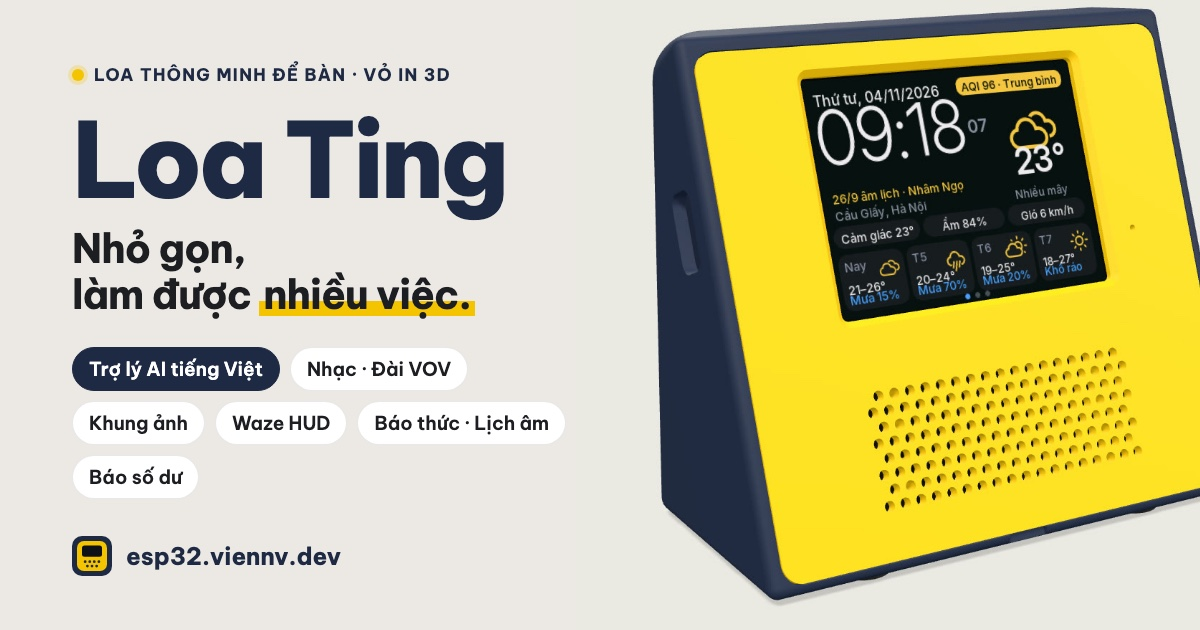
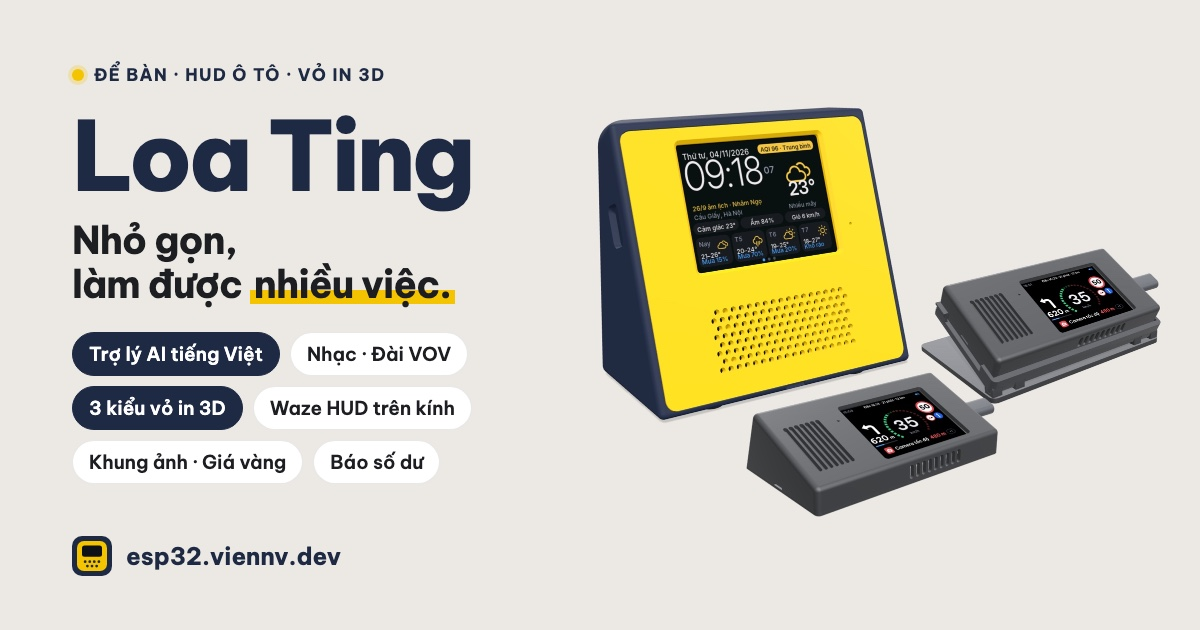
Landing page từ ed23bc9 (có thay đổi chưa commit)

diff --git a/index.html b/index.html
@@ -16,11 +16,11 @@
 <meta property="og:url" content="https://esp32.viennv.dev/">
 <meta property="og:title" content="Loa Ting · Nhỏ gọn, làm được nhiều việc">
 <meta property="og:description" content="Trợ lý AI nói tiếng Việt, nhạc theo yêu cầu, đài VOV, khung ảnh Google Photos, giá vàng, báo thức, lịch âm và báo biến động số dư, trên một chiếc loa nhỏ có vỏ in 3D. Thay vỏ là thành HUD dẫn đường trên ô tô.">
-<meta property="og:image" content="https://esp32.viennv.dev/assets/og-image.jpg?v=1">
+<meta property="og:image" content="https://esp32.viennv.dev/assets/og-image.jpg?v=2">
 <meta property="og:image:type" content="image/jpeg">
 <meta property="og:image:width" content="1200">
 <meta property="og:image:height" content="630">
-<meta property="og:image:alt" content="Loa Ting: loa thông minh để bàn, mặt trước vàng, lưng xanh than, màn hình đồng hồ và thời tiết">
+<meta property="og:image:alt" content="Loa Ting: ba kiểu vỏ in 3D, vỏ để bàn mặt trước vàng lưng xanh than và hai vỏ HUD ô tô màu đen hiện Waze HUD">
 <meta property="og:video" content="https://esp32.viennv.dev/assets/review.mp4">
 <meta property="og:video:type" content="video/mp4">
 <meta property="og:video:width" content="1280">
@@ -28,8 +28,8 @@
 <meta name="twitter:card" content="summary_large_image">
 <meta name="twitter:title" content="Loa Ting · Nhỏ gọn, làm được nhiều việc">
 <meta name="twitter:description" content="Trợ lý AI nói tiếng Việt, nhạc theo yêu cầu, đài VOV, khung ảnh Google Photos, giá vàng, báo thức, lịch âm và báo biến động số dư, trên một chiếc loa nhỏ có vỏ in 3D. Thay vỏ là thành HUD dẫn đường trên ô tô.">
-<meta name="twitter:image" content="https://esp32.viennv.dev/assets/og-image.jpg?v=1">
-<meta name="twitter:image:alt" content="Loa Ting: loa thông minh để bàn, mặt trước vàng, lưng xanh than, màn hình đồng hồ và thời tiết">
+<meta name="twitter:image" content="https://esp32.viennv.dev/assets/og-image.jpg?v=2">
+<meta name="twitter:image:alt" content="Loa Ting: ba kiểu vỏ in 3D, vỏ để bàn mặt trước vàng lưng xanh than và hai vỏ HUD ô tô màu đen hiện Waze HUD">
 <link rel="icon" href="assets/favicon.svg" type="image/svg+xml">
 <link rel="apple-touch-icon" href="assets/apple-touch-icon.png">
 <script type="application/ld+json">
@@ -40,7 +40,7 @@
   "url": "https://esp32.viennv.dev/",
   "inLanguage": "vi",
   "description": "Loa thông minh để bàn, màn hình cảm ứng 2,8″: trợ lý AI tiếng Việt, nhạc, đài VOV, khung ảnh, giá vàng, báo thức, báo số dư. Vỏ in 3D, có vỏ HUD cho ô tô.",
-  "image": "https://esp32.viennv.dev/assets/og-image.jpg?v=1",
+  "image": "https://esp32.viennv.dev/assets/og-image.jpg?v=2",
   "publisher": {
     "@type": "Organization",
     "name": "viennv.dev",
@@ -57,7 +57,7 @@
   "description": "Một vòng quanh vỏ in 3D, nhìn xuyên vào bên trong, rồi đi qua từng ứng dụng của loa: trợ lý AI “Hey Ivy”, nhạc, đài VOV, khung ảnh, Waze HUD, báo thức, báo số dư.",
   "thumbnailUrl": [
     "https://esp32.viennv.dev/assets/review-poster.jpg",
-    "https://esp32.viennv.dev/assets/og-image.jpg?v=1"
+    "https://esp32.viennv.dev/assets/og-image.jpg?v=2"
   ],
   "uploadDate": "2026-11-07T15:11:00+07:00",
   "duration": "PT4M50S",
@@ -148,11 +148,22 @@
   .nav-links a { text-decoration: none; color: var(--muted); }
   .nav-links a:hover { color: var(--ink); }
   .nav .btn { height: 40px; padding: 0 16px; font-size: 14px; border-radius: 11px; }
+  /* menu điện thoại: nút ☰ mở danh sách mục ngay dưới header */
+  .menu-btn { display: none; width: 44px; height: 44px; margin-right: -10px; border: 0; border-radius: 12px; background: transparent; color: var(--ink); cursor: pointer; place-items: center; }
+  .menu-btn:hover { background: rgba(255,255,255,.55); }
+  .menu-btn svg { width: 24px; height: 24px; }
+  .menu-btn path { transition: transform .2s, opacity .2s; transform-origin: 12px 12px; }
+  header.top.open .menu-btn .m1 { transform: translateY(5px) rotate(45deg); }
+  header.top.open .menu-btn .m2 { opacity: 0; }
+  header.top.open .menu-btn .m3 { transform: translateY(-5px) rotate(-45deg); }
+  .nav-links .nav-cta { display: none; }
+
 
   /* hero */
   .hero { padding: clamp(28px, 5vw, 56px) 0 clamp(40px, 6vw, 72px); }
   .hero-grid { display: grid; grid-template-columns: 1.02fr 1fr; gap: clamp(24px, 4vw, 56px); align-items: center; }
-  .hero h1 { font-size: clamp(42px, 6.2vw, 74px); font-weight: 800; letter-spacing: -.035em; margin: 22px 0 20px; }
+  /* trên máy tính đúng 2 dòng: "Nhỏ gọn, làm được" vừa bề ngang cột chữ (≈ 8,7 × cỡ chữ), "nhiều việc." không ngắt */
+  .hero h1 { font-size: clamp(40px, 4.6vw, 58px); font-weight: 800; letter-spacing: -.035em; margin: 22px 0 20px; }
   .hero h1 .hl { position: relative; white-space: nowrap; }
   .hero h1 .hl::after {
     content: ""; position: absolute; left: -2px; right: -4px; bottom: .06em; height: .34em;
@@ -355,10 +366,22 @@
   .dark :focus-visible { outline-color: var(--yellow); }
 
   @media (max-width: 980px) {
-    .nav-links { display: none; }
+    .nav { justify-content: flex-start; }
+    .brand { margin-right: auto; }
+    .menu-btn { display: grid; }
+    .nav-links {
+      display: none; position: absolute; top: 100%; left: 0; right: 0; flex-direction: column; gap: 0;
+      padding: 4px 20px 18px; background: var(--paper); border-bottom: 1px solid var(--line);
+      box-shadow: 0 18px 30px rgba(28,30,34,.12);
+    }
+    header.top.open .nav-links { display: flex; }
+    .nav-links a { padding: 13px 2px; font-size: 17px; font-weight: 600; color: var(--ink); border-bottom: 1px solid var(--line); box-shadow: none; }
+    .nav-links a[aria-current="page"] { color: var(--navy); box-shadow: inset 3px 0 0 var(--yellow); padding-left: 12px; }
     .features { grid-template-columns: repeat(2, 1fr); }
     .details { grid-template-columns: repeat(2, 1fr); }
   }
+  /* cột ảnh hero hẹp: bong bóng sẽ che vỏ HUD phẳng */
+  @media (min-width: 861px) and (max-width: 1060px) { .toast { display: none; } }
   @media (max-width: 860px) {
     .hero-grid, .demo-grid, .assistant, .hw-grid, .hud-intro, .vo-grid { grid-template-columns: 1fr; }
     .vo-grid { max-width: 560px; }
@@ -368,8 +391,23 @@
   }
   @media (max-width: 560px) {
     body { font-size: 16px; }
-    .features, .details { grid-template-columns: 1fr; }
+    .details { grid-template-columns: 1fr; }
     .hero-cta .btn { flex: 1 1 100%; justify-content: center; }
+    .nav-links .nav-cta { display: block; margin-top: 12px; padding: 13px 16px; border: 0; border-radius: 13px; background: var(--navy); color: #fff; text-align: center; }
+    /* 16 tính năng: 2 cột cho trang bớt dài */
+    .features { grid-template-columns: 1fr 1fr; gap: 20px 12px; }
+    .feature .screen { padding: 4px; border-radius: 11px; margin-bottom: 10px; }
+    .feature .screen img { border-radius: 7px; }
+    .feature h3 { font-size: 15px; gap: 4px 6px; }
+    .feature p { font-size: 13.5px; line-height: 1.5; margin-top: 4px; }
+    .badge { font-size: 12px; padding: 2px 7px; }
+    /* hàng vuốt ngang: thẻ sau ló ra một phần để biết còn nữa */
+    .vo-grid, .flow { display: flex; overflow-x: auto; scroll-snap-type: x mandatory; gap: 14px; margin-left: -20px; margin-right: -20px; padding: 2px 20px 12px; scroll-padding-left: 20px; max-width: none; scrollbar-width: none; }
+    .vo-grid > .vo-card, .flow > .step { flex: 0 0 82%; scroll-snap-align: start; }
+    .vo-grid::-webkit-scrollbar, .flow::-webkit-scrollbar { display: none; }
+    .build-step { padding: 20px; }
+    .chapters button { padding: 10px; font-size: 15px; }
+    .foot-links a { display: inline-block; padding: 8px 0; }
     .toast { display: none; }
     .hud-tag { bottom: -4%; padding: 6px 10px 6px 6px; gap: 8px; }
     .hud-tag .ico { width: 28px; height: 28px; }
@@ -399,15 +437,17 @@
       </svg>
       Loa Ting
     </a>
-    <nav class="nav-links" aria-label="Mục lục">
+    <nav class="nav-links" id="nav-links" aria-label="Mục lục">
       <a href="#video">Video</a>
       <a href="vo/">Vỏ in 3D</a>
       <a href="#hud">HUD ô tô</a>
       <a href="#tinh-nang">Tính năng</a>
       <a href="#bao-so-du">Báo số dư</a>
       <a href="#hoi-dap">Hỏi đáp</a>
+      <a class="nav-cta" href="#tu-lam">Tự làm một chiếc</a>
     </nav>
     <a class="btn btn-dark" href="#tu-lam">Tự làm một chiếc</a>
+    <button class="menu-btn" type="button" aria-expanded="false" aria-controls="nav-links" aria-label="Mở menu"><svg viewBox="0 0 24 24" fill="none" stroke="currentColor" stroke-width="2.2" stroke-linecap="round" aria-hidden="true"><path class="m1" d="M4 7h16"/><path class="m2" d="M4 12h16"/><path class="m3" d="M4 17h16"/></svg></button>
   </div>
 </header>
 
@@ -835,6 +875,14 @@
   (function () {
     var y = document.getElementById('year'); if (y) y.textContent = new Date().getFullYear();
     var h = document.querySelector('header.top');
+    // menu điện thoại
+    var mb = document.querySelector('.menu-btn'), hd = document.querySelector('header.top');
+    function menu(open) { hd.classList.toggle('open', open); mb.setAttribute('aria-expanded', String(open)); mb.setAttribute('aria-label', open ? 'Đóng menu' : 'Mở menu'); }
+    mb.addEventListener('click', function () { menu(!hd.classList.contains('open')); });
+    document.getElementById('nav-links').addEventListener('click', function (e) { if (e.target.closest('a')) menu(false); });
+    document.addEventListener('keydown', function (e) { if (e.key === 'Escape') menu(false); });
+    document.addEventListener('click', function (e) { if (!hd.contains(e.target)) menu(false); });
+
     var on = function () { h.classList.toggle('scrolled', window.scrollY > 8); };
     on(); window.addEventListener('scroll', on, { passive: true });
     // logo: back to the top, and drop the #hash so a reload stays at the top

diff --git a/vo/index.html b/vo/index.html
@@ -15,13 +15,13 @@
 <meta property="og:url" content="https://esp32.viennv.dev/vo/">
 <meta property="og:title" content="Vỏ in 3D Loa Ting · để bàn và HUD ô tô">
 <meta property="og:description" content="Một mạch, ba kiểu vỏ: để bàn, HUD nêm 20°, HUD thân phẳng trên đế 5 nấc. So sánh, cấu tạo, thiết kế và mô hình 3D.">
-<meta property="og:image" content="https://esp32.viennv.dev/assets/og-image.jpg?v=1">
+<meta property="og:image" content="https://esp32.viennv.dev/assets/og-image.jpg?v=2">
 <meta property="og:image:width" content="1200">
 <meta property="og:image:height" content="630">
 <meta name="twitter:card" content="summary_large_image">
 <meta name="twitter:title" content="Vỏ in 3D Loa Ting · để bàn và HUD ô tô">
 <meta name="twitter:description" content="Một mạch, ba kiểu vỏ: để bàn, HUD nêm 20°, HUD thân phẳng trên đế 5 nấc. So sánh, cấu tạo, thiết kế và mô hình 3D.">
-<meta name="twitter:image" content="https://esp32.viennv.dev/assets/og-image.jpg?v=1">
+<meta name="twitter:image" content="https://esp32.viennv.dev/assets/og-image.jpg?v=2">
 <link rel="icon" href="../assets/favicon.svg" type="image/svg+xml">
 <link rel="apple-touch-icon" href="../assets/apple-touch-icon.png">
 <script type="application/ld+json">
@@ -110,6 +110,16 @@
   .nav-links a:hover { color: var(--ink); }
   .nav-links a[aria-current="page"] { color: var(--ink); font-weight: 700; box-shadow: inset 0 -2px 0 var(--yellow); }
   .nav .btn { height: 40px; padding: 0 16px; font-size: 14px; border-radius: 11px; }
+  /* menu điện thoại: nút ☰ mở danh sách mục ngay dưới header */
+  .menu-btn { display: none; width: 44px; height: 44px; margin-right: -10px; border: 0; border-radius: 12px; background: transparent; color: var(--ink); cursor: pointer; place-items: center; }
+  .menu-btn:hover { background: rgba(255,255,255,.55); }
+  .menu-btn svg { width: 24px; height: 24px; }
+  .menu-btn path { transition: transform .2s, opacity .2s; transform-origin: 12px 12px; }
+  header.top.open .menu-btn .m1 { transform: translateY(5px) rotate(45deg); }
+  header.top.open .menu-btn .m2 { opacity: 0; }
+  header.top.open .menu-btn .m3 { transform: translateY(-5px) rotate(-45deg); }
+  .nav-links .nav-cta { display: none; }
+
 
   /* intro */
   .intro { padding: clamp(28px, 5vw, 56px) 0 clamp(24px, 3vw, 36px); }
@@ -279,6 +289,7 @@
   .cmp .group th, .cmp .group td { background: rgba(245,196,0,.1); font-size: 12px; font-weight: 700; letter-spacing: .06em; text-transform: uppercase; color: #8a6400; padding-top: 8px; padding-bottom: 8px; }
   .cmp .group th:first-child { background: #f7efce; }
   .cmp small { display: block; color: var(--muted); font-size: 13px; }
+  .swipe-hint { display: none; margin: 22px 0 -16px; font-size: 13.5px; font-weight: 600; color: var(--muted); }
   .choose { display: grid; grid-template-columns: repeat(3, 1fr); gap: 18px; margin-top: 28px; }
   .choose a { display: block; text-decoration: none; background: var(--paper-2); border: 1px solid var(--line); border-radius: var(--radius); padding: 18px 20px; }
   .choose a:hover { background: #fff; }
@@ -311,7 +322,17 @@
   :focus-visible { outline: 3px solid var(--navy); outline-offset: 3px; border-radius: 6px; }
 
   @media (max-width: 980px) {
-    .nav-links { display: none; }
+    .nav { justify-content: flex-start; }
+    .brand { margin-right: auto; }
+    .menu-btn { display: grid; }
+    .nav-links {
+      display: none; position: absolute; top: 100%; left: 0; right: 0; flex-direction: column; gap: 0;
+      padding: 4px 20px 18px; background: var(--paper); border-bottom: 1px solid var(--line);
+      box-shadow: 0 18px 30px rgba(28,30,34,.12);
+    }
+    header.top.open .nav-links { display: flex; }
+    .nav-links a { padding: 13px 2px; font-size: 17px; font-weight: 600; color: var(--ink); border-bottom: 1px solid var(--line); box-shadow: none; }
+    .nav-links a[aria-current="page"] { color: var(--navy); box-shadow: inset 3px 0 0 var(--yellow); padding-left: 12px; }
     .details { grid-template-columns: 1fr 1fr; }
     .cmp-cards, .choose { grid-template-columns: 1fr 1fr; }
   }
@@ -326,12 +347,26 @@
   @media (max-width: 560px) {
     body { font-size: 16px; }
     .nav .btn { display: none; }
-    .cmp-cards, .choose, .details { grid-template-columns: 1fr; }
+    .choose, .details { grid-template-columns: 1fr; }
+    .swipe-hint { display: block; }
+    .stats dd { font-size: 16px; }
+    .stats div { padding: 10px 12px; }
+    .nav-links .nav-cta { display: block; margin-top: 12px; padding: 13px 16px; border: 0; border-radius: 13px; background: var(--navy); color: #fff; text-align: center; }
+    /* hàng vuốt ngang: thẻ sau ló ra một phần để biết còn nữa */
+    .cmp-cards { display: flex; overflow-x: auto; scroll-snap-type: x mandatory; gap: 14px; margin-left: -20px; margin-right: -20px; padding: 2px 20px 12px; scroll-padding-left: 20px; max-width: none; scrollbar-width: none; }
+    .cmp-cards > .ccard { flex: 0 0 82%; scroll-snap-align: start; }
+    .cmp-cards::-webkit-scrollbar { display: none; }
+    .foot-links a { display: inline-block; padding: 8px 0; }
     .kv th, .kv td { display: block; width: auto; }
     .kv th { padding-bottom: 4px; border-top: 1px solid var(--line); }
     .kv td { padding-top: 4px; border-top: 0; }
-    .tab { padding: 0 12px; }
-    .tab small { display: none; }
+    /* 4 tab vừa một hàng */
+    .tablist { display: grid; grid-template-columns: repeat(4, auto); justify-content: space-between; gap: 4px; }
+    .tab { padding: 0 9px; font-size: 14.5px; gap: 0; }
+    .tab small, .tab .dot { display: none; }
+  }
+  @media (max-width: 420px) {
+    .tab .deg { display: none; }
   }
   @media (prefers-reduced-motion: reduce) {
     html { scroll-behavior: auto; }
@@ -352,14 +387,16 @@
       </svg>
       Loa Ting
     </a>
-    <nav class="nav-links" aria-label="Mục lục">
+    <nav class="nav-links" id="nav-links" aria-label="Mục lục">
       <a href="../">Trang chủ</a>
       <a href="./" aria-current="page">Vỏ in 3D</a>
       <a href="../#hud">HUD ô tô</a>
       <a href="../#tinh-nang">Tính năng</a>
       <a href="../#hoi-dap">Hỏi đáp</a>
+      <a class="nav-cta" href="../#tu-lam">Tự làm một chiếc</a>
     </nav>
     <a class="btn btn-dark" href="../#tu-lam">Tự làm một chiếc</a>
+    <button class="menu-btn" type="button" aria-expanded="false" aria-controls="nav-links" aria-label="Mở menu"><svg viewBox="0 0 24 24" fill="none" stroke="currentColor" stroke-width="2.2" stroke-linecap="round" aria-hidden="true"><path class="m1" d="M4 7h16"/><path class="m2" d="M4 12h16"/><path class="m3" d="M4 17h16"/></svg></button>
   </div>
 </header>
 
@@ -383,7 +420,7 @@
   <div class="wrap tablist" role="tablist">
     <a class="tab" role="tab" id="tab-so-sanh" href="#so-sanh" aria-controls="so-sanh" aria-selected="true">So sánh</a>
     <a class="tab" role="tab" id="tab-de-ban" href="#de-ban" aria-controls="de-ban" aria-selected="false"><i class="dot" aria-hidden="true"></i>Để bàn <small>bản 3.1</small></a>
-    <a class="tab" role="tab" id="tab-hud-nem" href="#hud-nem" aria-controls="hud-nem" aria-selected="false"><i class="dot draft" aria-hidden="true"></i>HUD nêm 20°</a>
+    <a class="tab" role="tab" id="tab-hud-nem" href="#hud-nem" aria-controls="hud-nem" aria-selected="false"><i class="dot draft" aria-hidden="true"></i>HUD nêm<span class="deg"> 20°</span></a>
     <a class="tab" role="tab" id="tab-hud-phang" href="#hud-phang" aria-controls="hud-phang" aria-selected="false"><i class="dot draft" aria-hidden="true"></i>HUD phẳng <small>đế 5 nấc</small></a>
   </div>
 </nav>
@@ -425,6 +462,7 @@
     </a>
   </div>
 
+  <p class="swipe-hint" aria-hidden="true">Vuốt ngang bảng để xem cả 3 vỏ →</p>
   <div class="cmp-wrap" role="region" aria-label="Bảng so sánh ba kiểu vỏ" tabindex="0">
     <table class="cmp">
       <thead>
@@ -917,6 +955,14 @@
 <script>
   (function () {
     document.body.classList.remove('no-js');
+    // menu điện thoại
+    var mb = document.querySelector('.menu-btn'), hd = document.querySelector('header.top');
+    function menu(open) { hd.classList.toggle('open', open); mb.setAttribute('aria-expanded', String(open)); mb.setAttribute('aria-label', open ? 'Đóng menu' : 'Mở menu'); }
+    mb.addEventListener('click', function () { menu(!hd.classList.contains('open')); });
+    document.getElementById('nav-links').addEventListener('click', function (e) { if (e.target.closest('a')) menu(false); });
+    document.addEventListener('keydown', function (e) { if (e.key === 'Escape') menu(false); });
+    document.addEventListener('click', function (e) { if (!hd.contains(e.target)) menu(false); });
+
     var y = document.getElementById('year'); if (y) y.textContent = new Date().getFullYear();
 
     // tabs: one panel at a time, the URL hash names the tab (#so-sanh, #de-ban, #hud-nem, #hud-phang)

diff --git a/3d/hud-phang/index.html b/3d/hud-phang/index.html
@@ -8,7 +8,7 @@
 <link rel="canonical" href="https://esp32.viennv.dev/3d/hud-phang/">
 <meta property="og:title" content="Vỏ HUD ô tô Loa Ting · thân phẳng, đế 5 nấc">
 <meta property="og:description" content="Xoay mô hình 3D, đổi nấc 10–40°, xem ảnh Waze HUD phản chiếu lên kính lái.">
-<meta property="og:image" content="https://esp32.viennv.dev/assets/og-image.jpg?v=1">
+<meta property="og:image" content="https://esp32.viennv.dev/assets/og-image.jpg?v=2">
 <meta property="og:url" content="https://esp32.viennv.dev/3d/hud-phang/">
 <link rel="icon" href="../../assets/favicon.svg" type="image/svg+xml">
 </head>
@@ -1053,7 +1053,10 @@ function placeLabels() {
 
 function resize() {
   const w = stageEl.clientWidth, h = stageEl.clientHeight;
-  renderer.setSize(w, h, false); camera.aspect = w / Math.max(h, 1); camera.updateProjectionMatrix();
+  renderer.setSize(w, h, false); camera.aspect = w / Math.max(h, 1);
+  // the views are framed for a landscape stage: on a narrow one (a phone) pull back so the case still fits
+  camera.zoom = Math.min(1, camera.aspect / 1.3);
+  camera.updateProjectionMatrix();
 }
 new ResizeObserver(resize).observe(stageEl);
 resize();

diff --git a/3d/hud-nem/index.html b/3d/hud-nem/index.html
@@ -8,7 +8,7 @@
 <link rel="canonical" href="https://esp32.viennv.dev/3d/hud-nem/">
 <meta property="og:title" content="Vỏ HUD ô tô Loa Ting · nêm 20°">
 <meta property="og:description" content="Xoay mô hình 3D, xem ảnh Waze HUD phản chiếu lên kính lái theo từng góc kính.">
-<meta property="og:image" content="https://esp32.viennv.dev/assets/og-image.jpg?v=1">
+<meta property="og:image" content="https://esp32.viennv.dev/assets/og-image.jpg?v=2">
 <meta property="og:url" content="https://esp32.viennv.dev/3d/hud-nem/">
 <link rel="icon" href="../../assets/favicon.svg" type="image/svg+xml">
 </head>
@@ -989,7 +989,10 @@ function placeLabels() {
 
 function resize() {
   const w = stageEl.clientWidth, h = stageEl.clientHeight;
-  renderer.setSize(w, h, false); camera.aspect = w / Math.max(h, 1); camera.updateProjectionMatrix();
+  renderer.setSize(w, h, false); camera.aspect = w / Math.max(h, 1);
+  // the views are framed for a landscape stage: on a narrow one (a phone) pull back so the case still fits
+  camera.zoom = Math.min(1, camera.aspect / 1.3);
+  camera.updateProjectionMatrix();
 }
 new ResizeObserver(resize).observe(stageEl);
 resize();

diff --git a/3d/index.html b/3d/index.html
@@ -8,7 +8,7 @@
 <link rel="canonical" href="https://esp32.viennv.dev/3d/">
 <meta property="og:title" content="Mô hình 3D vỏ Loa Ting">
 <meta property="og:description" content="Xoay, tách lớp, cắt dọc vỏ in 3D của Loa Ting ngay trên trình duyệt.">
-<meta property="og:image" content="https://esp32.viennv.dev/assets/og-image.jpg?v=1">
+<meta property="og:image" content="https://esp32.viennv.dev/assets/og-image.jpg?v=2">
 <meta property="og:url" content="https://esp32.viennv.dev/3d/">
 <link rel="icon" href="../assets/favicon.svg" type="image/svg+xml">
 </head>
@@ -106,6 +106,7 @@ body { background: var(--bg); color: var(--ink); font: 14px/1.45 var(--font-ui);
 
 <div class="app">
   <header class="bar">
+    <a href="../vo/#de-ban" style="font-weight:600;font-size:14px;color:var(--muted);text-decoration:none;margin-right:4px">← Vỏ in 3D</a>
     <h1>Vỏ để bàn loa ES3C28P<span class="ver">bản 3.1 · 06/11/2026 · nẫy cài mới, khe thoát nhiệt</span></h1>
     <div class="spec">104 × 52 × 92,1 mm · mặt nghiêng 20° · 5 chi tiết in · ~97 g nhựa</div>
   </header>
